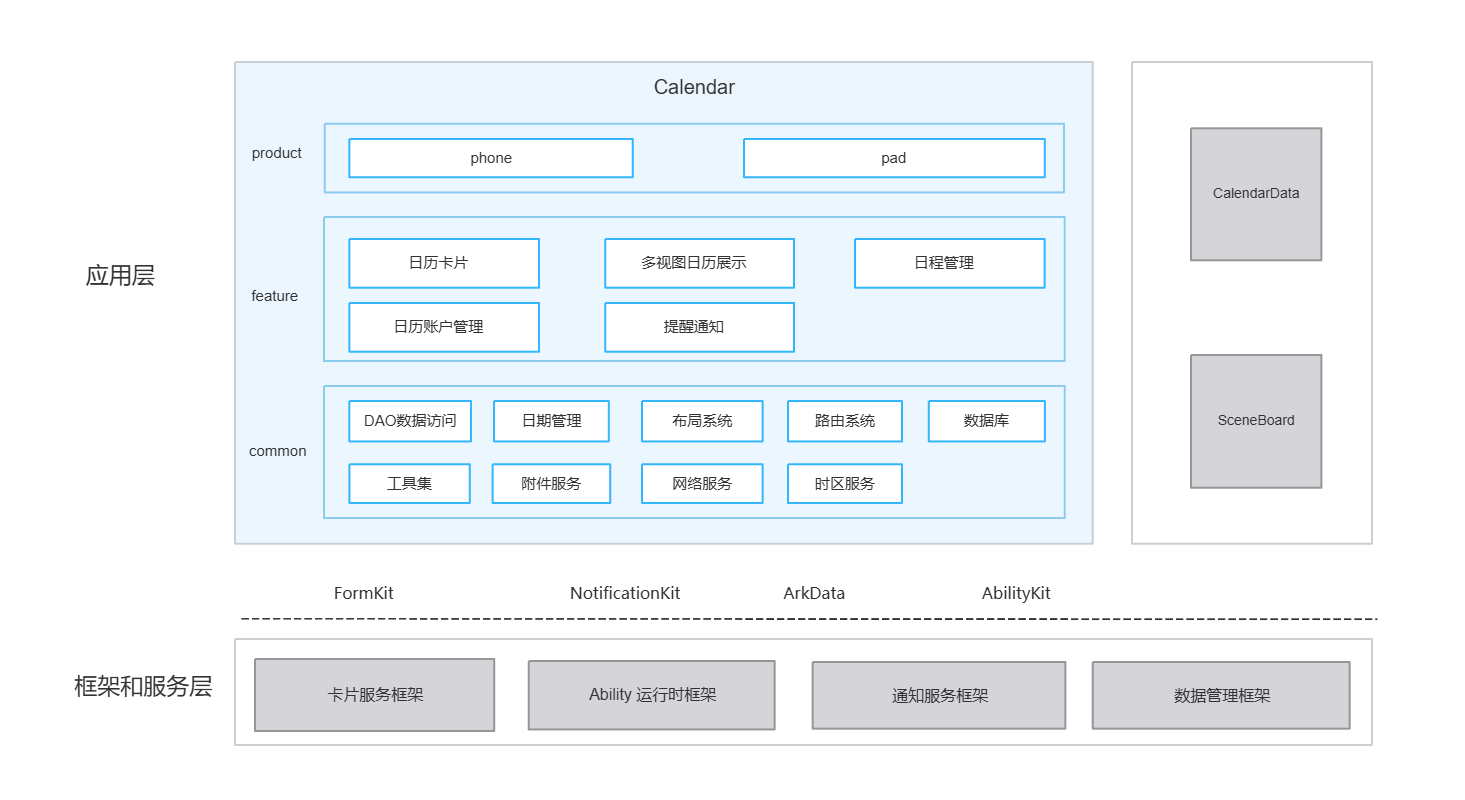
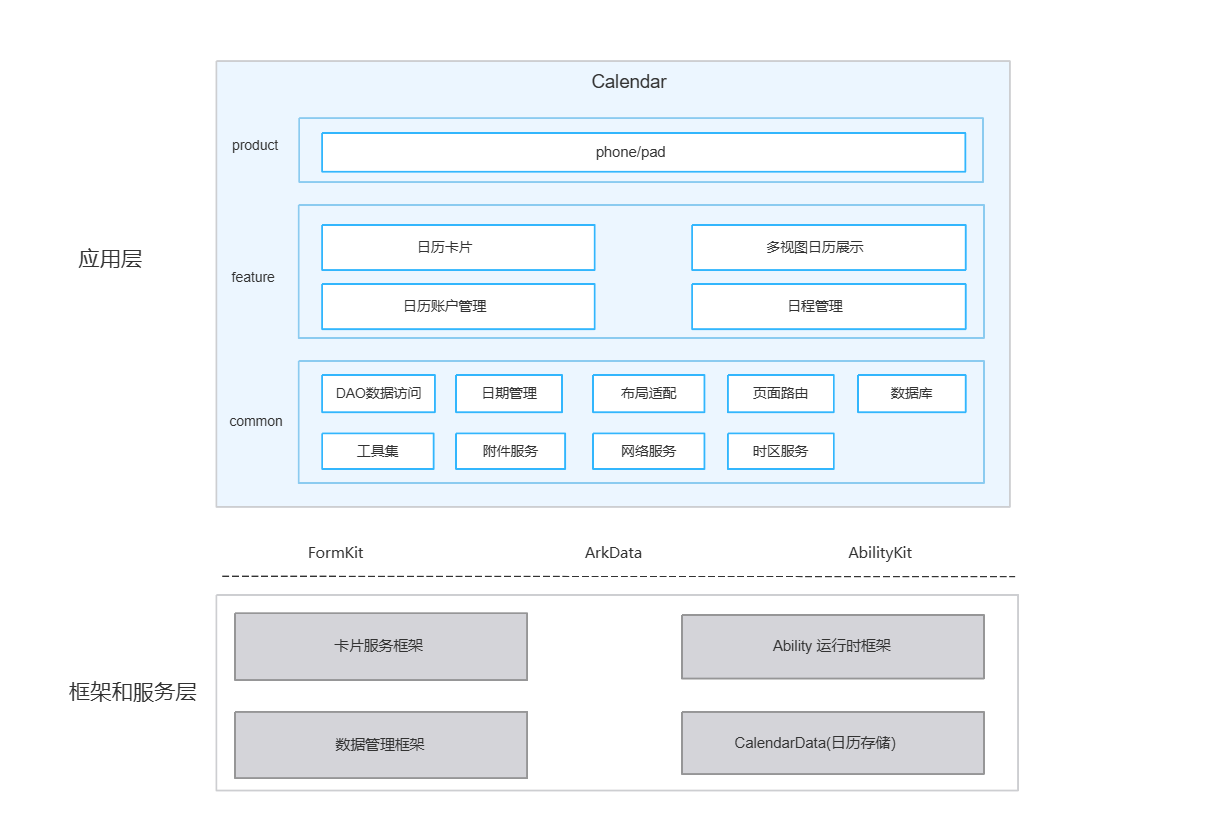
修改日历README中与实际工程不符的描述

Changed region(s): [[0.1557, 0.0625, 0.9033, 0.6875], [0.0311, 0.7188, 0.9344, 0.9688], [0.0623, 0.2812, 0.1246, 0.375]]

diff --git a/README.md b/README.md
@@ -2,7 +2,7 @@
 
 ## Introduction
 
-**Calendar** (bundle name: `com.ohos.calendar`) is a pre-installed **system application** in OpenHarmony. The app manages event data through the system calendar service, providing calendar cards, multi-view calendar display, event management, calendar account management, and reminder notification capabilities, and is adapted for phone and tablet device types.
+**Calendar** (bundle name: `com.ohos.calendar`) is a pre-installed **system application** in OpenHarmony. The app manages event data through the system calendar service, providing calendar cards, multi-view calendar display, event management, and calendar account management capabilities, and is adapted for phone and tablet device types.
 
 This application is a pre-installed system app. Users can access Calendar from the home screen icon, home screen cards, notification bar, and other entry points.
 
@@ -23,8 +23,6 @@ This application is a pre-installed system app. Users can access Calendar from t
 - Supports creation, deletion, and fine-grained settings for default account, personal accounts, and third-party accounts.
 - Supports viewing all events under an account.
 
-**Reminder Notifications**
-- Regular events trigger a banner notification at their due time; important events trigger an enhanced notification (effective in both lock-screen and screenshot scenarios).
 
 ## Architecture
 
@@ -38,18 +36,18 @@ The app is divided into three layers: product layer, feature layer, and common l
 | Layer | Key Directories / Components | Description |
 |-------|------------------------------|-------------|
 | Product Layer | `product/entry` | Adapted for phone and tablet device types |
-| Feature Layer | `features/agenda`, `features/monthview`, `features/weekview`, `features/yearview`, `features/sidebar`, `features/account`, `features/card`, `features/importexport`, `features/repeatrule`, `features/settings` | Calendar cards, multi-view calendar display, event management, calendar account management, reminder notifications |
-| Common Layer | `common`, `services` | DAO data access, date processing, layout system, router system, database, utilities, attachment service, network service, timezone service |
+| Feature Layer | `features/agenda`, `features/monthview`, `features/weekview`, `features/yearview`, `features/sidebar`, `features/account`, `features/card`, `features/importexport`, `features/repeatrule`, `features/settings` | Calendar cards, multi-view calendar display, event management, calendar account management |
+| Common Layer | `common`, `services` | DAO data access, date processing, layout adaptation, page routing, database, utilities, attachment service, network service, timezone service |
 
 **Feature Layer Module Details**:
 
 | Core Capability | Key Modules and Classes | Description |
 |-----------------|------------------------|-------------|
-| Calendar Cards | features/card | Three-layer Controller/ViewModel/View architecture for event cards, important day cards, and month-view cards; 8 size options |
-| Multi-View Calendar Display | features/monthview, features/weekview, features/yearview, features/sidebar | `MonthlyViewModel` / `SingleMonthlyViewModel` / `SingleWeekViewModel` drive view rendering; `LayoutModel` / `LayoutModelTree` manage layout adaptation |
-| Event Management | features/agenda, features/importexport, features/repeatrule, features/settings | Event CRUD, search, import/export, repeat rule parsing, 9-group settings configuration |
-| Calendar Account Management | features/account | Details, creation, deletion, and fine-grained settings for default/personal/third-party accounts |
-| Reminder Notifications | CalendarWorkSchedulerExtensionAbility, StaticSubscriber | Background task scheduling, system broadcast event reception |
+| Calendar Cards | features/card | Three-layer Controller/ViewModel/View architecture for event cards, important day cards, and month-view cards; 8 desktop cards in 4 sizes (2×2, 2×4, 4×4, 4×6) |
+| Multi-View Calendar Display | features/monthview, features/weekview, features/yearview, features/sidebar | Month view: `MonthlyViewModel` / `SingleMonthlyViewModel`; Week view: `GanttViewModel` / `DateViewModel`; Year view: `YearViewModel`; Sidebar: `SideBarMonthViewModel` — driving view rendering and layout adaptation |
+| Event Management | features/agenda, features/importexport, features/repeatrule, features/settings | Event CRUD, search, import/export, repeat rule parsing, settings configuration (calendar display, views, reminders, network, about, etc.) |
+| Calendar Account Management | features/account | Detail viewing, deletion, and fine-grained settings for default/personal/third-party accounts |
+
 
 ### Relationship with Other Apps
 
@@ -65,7 +63,7 @@ The app is divided into three layers: product layer, feature layer, and common l
 This project is a multi-module HAR + HAP application project, built with Hvigor, producing the `com.ohos.calendar` system application package.
 
 ### Environment Requirements
-- OpenHarmony SDK (this project uses `compileSdkVersion` 23, `compatibleSdkVersion` 20)
+- OpenHarmony SDK (this project uses `compileSdkVersion` "26.0.0", `compatibleSdkVersion` 20)
 - DevEco Studio or command-line Hvigor toolchain
 - System signing certificates (see `signature/`)
 
@@ -268,8 +266,8 @@ calendar
 │  └─src/main/ets/
 │     ├─dao/                            # Data access layer (CommonService, DBUtils, Parser)
 │     ├─date/                           # Date processing (lunar/solar calendar/holidays/solar terms/timezone)
-│     ├─layout/                         # Layout system (LayoutModel, LayoutModelTree, LayoutRule)
-│     ├─router/                         # Router system (NavPathManager, RouterConstants, NavPageBuilderFactory)
+│     ├─layout/                         # Layout adaptation (LayoutModel, LayoutModelTree, LayoutRule)
+│     ├─router/                         # Page routing (NavPathManager, RouterConstants, NavPageBuilderFactory)
 │     ├─database/                       # Database (CalendarDBHelper, BaseDBHelper)
 │     └─util/                           # Utilities (device/file/HTTP/permissions/timezone/broadcast/contacts, etc.)
 ├─commons                               # Common UI component library
@@ -281,7 +279,7 @@ calendar
 │  └─timezone/                          # Timezone service
 ├─signature                             # Signing certificates and profiles
 ├─hvigor                                # Build tool configuration
-├─build-profile.json5                   # Project-level SDK / signing / product configuration
+├─build-profile.json5                   # Project configuration
 ├─oh-package.json5
 ├─OAT.xml                               # Open source compliance audit
 ├─LICENSE
@@ -299,10 +297,9 @@ calendar
 
   | Permission | Authorization | Usage |
   |------------|--------------|-------|
-  | ohos.permission.READ_CALENDAR | User grant | Read calendar event data |
-  | ohos.permission.WRITE_CALENDAR | User grant | Create, modify, delete calendar events |
   | ohos.permission.READ_WHOLE_CALENDAR | User grant | Read all calendar information |
   | ohos.permission.WRITE_WHOLE_CALENDAR | User grant | Add, remove, or modify all calendar events |
+  | ohos.permission.NOTIFICATION_CONTROLLER | System grant | Manage calendar notification subscription and reminder settings |
 
 - **Supported Import/Export Formats**: .ics, .vcs
 

diff --git a/README_zh.md b/README_zh.md
@@ -2,7 +2,7 @@
 
 ## 简介
 
-**日历**（包名：`com.ohos.calendar`）是 OpenHarmony 中预置的 **系统应用**，应用通过系统日历服务管理日程数据，提供日历卡片、多视图日历展示、日程管理、日历账户管理、提醒通知能力，并适配手机、平板设备形态。
+**日历**（包名：`com.ohos.calendar`）是 OpenHarmony 中预置的 **系统应用**，应用通过系统日历服务管理日程数据，提供日历卡片、多视图日历展示、日程管理、日历账户管理能力，并适配手机、平板设备形态。
 
 本应用为系统预置应用，用户可从桌面图标、桌面卡片、通知栏等场景进入日历。
 
@@ -23,8 +23,6 @@
 - 支持默认账户、个人账户、三方账户的创建、删除与精细化设置。
 - 支持查看账户下所有日程。
 
-**提醒通知**
-- 普通日程到期后触发横幅通知，重要日程触发强通知（锁屏/截屏场景均生效）。
 
 ## 架构说明
 
@@ -38,18 +36,18 @@
 | 层次 | 主要目录 / 组件 | 说明 |
 |------|--------------|------|
 | 产品层 | `product/entry` | 适配手机、平板形态 |
-| 特性层 | `features/agenda`、`features/monthview`、`features/weekview`、`features/yearview`、`features/sidebar`、`features/account`、`features/card`、`features/importexport`、`features/repeatrule`、`features/settings` | 日历卡片、多视图日历展示、日程管理、日历账户管理、提醒通知 |
-| 公共层 | `common`、`services` | DAO 数据访问、日期处理、布局系统、路由系统、数据库、工具集、附件服务、网络服务、时区服务 |
+| 特性层 | `features/agenda`、`features/monthview`、`features/weekview`、`features/yearview`、`features/sidebar`、`features/account`、`features/card`、`features/importexport`、`features/repeatrule`、`features/settings` | 日历卡片、多视图日历展示、日程管理、日历账户管理 |
+| 公共层 | `common`、`services` | DAO 数据访问、日期处理、布局适配、页面路由、数据库、工具集、附件服务、网络服务、时区服务 |
 
 **特性层模块说明**：
 
 | 核心能力 | 主要模块与关键类 | 说明 |
 |---------|----------------|------|
-| 日历卡片 | features/card | 日程卡/重要日卡/月视图卡的 Controller/ViewModel/View 三层架构，8 种尺寸规格 |
-| 多视图日历展示 | features/monthview, features/weekview, features/yearview, features/sidebar | `MonthlyViewModel` / `SingleMonthlyViewModel` / `SingleWeekViewModel` 驱动视图渲染，`LayoutModel` / `LayoutModelTree` 管理布局适配 |
-| 日程管理 | features/agenda, features/importexport, features/repeatrule, features/settings | 日程 CRUD、搜索、导入导出、重复规则解析、9 组设置配置 |
-| 日历账户管理 | features/account | 默认/个人/三方账户的详情、创建、删除与精细化设置 |
-| 提醒通知 | CalendarWorkSchedulerExtensionAbility, StaticSubscriber | 后台延时任务调度，系统广播事件接收 |
+| 日历卡片 | features/card | 日程卡/重要日卡/月视图卡的 Controller/ViewModel/View 三层架构，8 款桌面卡片（含 2×2、2×4、4×4、4×6 四种尺寸） |
+| 多视图日历展示 | features/monthview, features/weekview, features/yearview, features/sidebar | 月视图 `MonthlyViewModel` / `SingleMonthlyViewModel`，周视图 `GanttViewModel` / `DateViewModel`，年视图 `YearViewModel`，侧边栏 `SideBarMonthViewModel` 驱动各视图渲染与布局适配 |
+| 日程管理 | features/agenda, features/importexport, features/repeatrule, features/settings | 日程 CRUD、搜索、导入导出、重复规则解析、设置项配置（含日历显示、视图、提醒、网络、关于等） |
+| 日历账户管理 | features/account | 默认/个人/三方账户的详情查看、删除与精细化设置 |
+
 
 ### 与其它应用的关系
 
@@ -65,7 +63,7 @@
 本工程为多模块 HAR + HAP 应用工程，使用 Hvigor 构建，产物为 `com.ohos.calendar` 系统应用包。
 
 ### 环境要求
-- OpenHarmony SDK（本工程 `compileSdkVersion` 为 23，`compatibleSdkVersion` 为 20）
+- OpenHarmony SDK（本工程 `compileSdkVersion` 为 "26.0.0"，`compatibleSdkVersion` 为 20）
 - DevEco Studio 或命令行 Hvigor 工具链
 - 系统签名证书（见 `signature/`）
 
@@ -268,8 +266,8 @@ calendar
 │  └─src/main/ets/
 │     ├─dao/                            # 数据访问层（CommonService、DBUtils、Parser）
 │     ├─date/                           # 日期处理（农历/公历/节日/节气/时区）
-│     ├─layout/                         # 布局系统（LayoutModel、LayoutModelTree、LayoutRule）
-│     ├─router/                         # 路由系统（NavPathManager、RouterConstants、NavPageBuilderFactory）
+│     ├─layout/                         # 布局适配（LayoutModel、LayoutModelTree、LayoutRule）
+│     ├─router/                         # 页面路由（NavPathManager、RouterConstants、NavPageBuilderFactory）
 │     ├─database/                       # 数据库（CalendarDBHelper、BaseDBHelper）
 │     └─util/                           # 工具集（设备/文件/HTTP/权限/时区/广播/联系人等）
 ├─commons                               # 公共 UI 组件库
@@ -281,7 +279,7 @@ calendar
 │  └─timezone/                          # 时区服务
 ├─signature                             # 签名证书与 profile
 ├─hvigor                                # 构建工具配置
-├─build-profile.json5                   # 工程级 SDK / 签名 / product 配置
+├─build-profile.json5                   # 工程配置
 ├─oh-package.json5
 ├─OAT.xml                               # 开源合规审计
 ├─LICENSE
@@ -299,10 +297,9 @@ calendar
 
   | 权限 | 授权方式 | 使用场景 |
   |------|---------|------|
-  | ohos.permission.READ_CALENDAR | 用户授权 | 读取日历日程数据 |
-  | ohos.permission.WRITE_CALENDAR | 用户授权 | 创建、修改、删除日历日程 |
   | ohos.permission.READ_WHOLE_CALENDAR | 用户授权 | 读取所有的日历信息 |
   | ohos.permission.WRITE_WHOLE_CALENDAR | 用户授权 | 添加、移除或更改所有的日历活动 |
+  | ohos.permission.NOTIFICATION_CONTROLLER | 系统授权 | 管理日历通知订阅与提醒设置 |
 
 - **支持的导入导出格式**：.ics、.vcs
 
